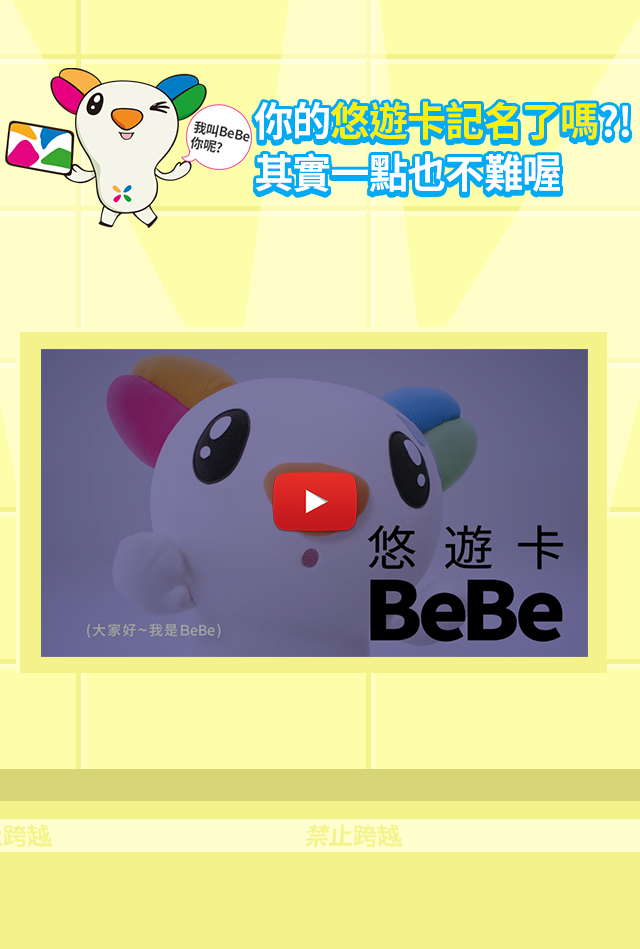
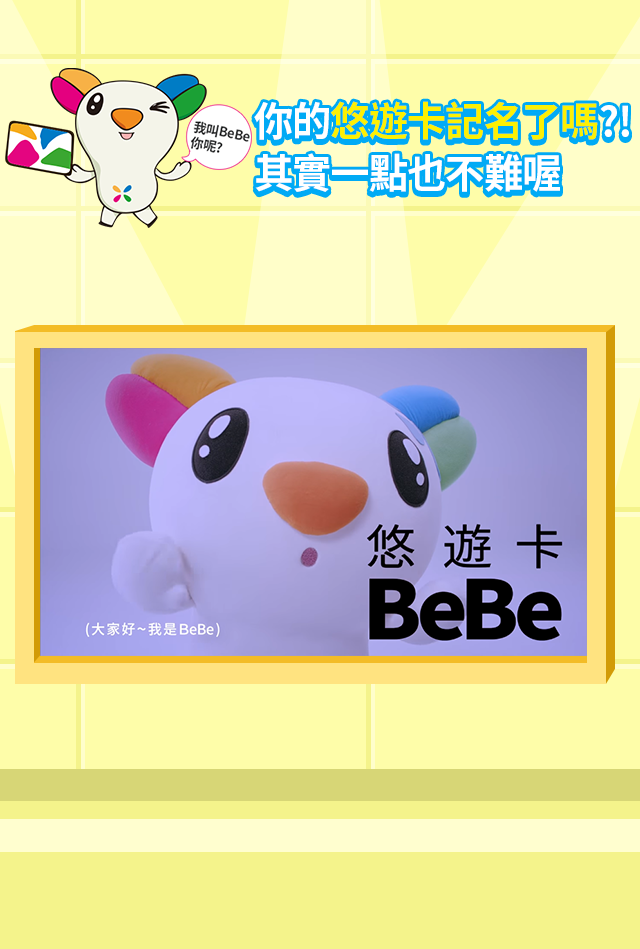
tvc

Changed region(s): [[0.0, 0.3361, 0.9688, 0.7334], [0.4688, 0.8556, 0.625, 0.9168], [0.0, 0.8556, 0.0938, 0.9168]]

diff --git a/demo/EasyCard/js/main.js b/demo/EasyCard/js/main.js
@@ -13,10 +13,15 @@ main = function (){
 	function init () {
 		console.log('main is loaded.');
 
-		$('.fb-btn').click(function(event) {
+		$('#comic-page').find('.fb-btn').click(function(event) {
 			/* Act on the event */
 			shareFB('http://event.easycard.com.tw/name/blogger-share.html');
 		});
+
+    $('#tvc-page').find('.fb-btn').click(function(event) {
+      /* Act on the event */
+      shareFB('http://event.easycard.com.tw/name/');
+    });
 
 		TweenMax.set($('.blogger-box'),{autoAlpha:0});
 		$('.blogger-box').css('display', 'block');
@@ -128,10 +133,10 @@ main = function (){
     pageTopArray[0] = $('#top-page').offset().top;
     pageTopArray[1] = $('#comic-page').offset().top;
 
-    pageTopArray[2] = $('#rule-page').offset().top;
+    // pageTopArray[2] = $('#rule-page').offset().top;
 
-    // pageTopArray[2] = $('#tvc-page').offset().top;
-    // pageTopArray[3] = $('#rule-page').offset().top;
+    pageTopArray[2] = $('#tvc-page').offset().top;
+    pageTopArray[3] = $('#rule-page').offset().top;
 
     var _count;
 
@@ -156,8 +161,7 @@ main = function (){
     }else if(nextIndex == 2){
       _tag = 'blogger';
     }else if(nextIndex == 3){
-      // _tag = 'tvc';
-      _tag = 'rule';
+      _tag = 'tvc';
     }else if(nextIndex == 4){
       _tag = 'rule';
     }

diff --git a/demo/EasyCard/css/style.css b/demo/EasyCard/css/style.css
@@ -345,28 +345,33 @@ table{
   width:100%;
   height: 700px;
 
-  display: none;
+  background-repeat: repeat;
+
+  overflow: hidden;
 }
 
 .tvc-content{
-  position: relative;
-  width: 1000px;
+  position: absolute;
+  width: 1366px;
   height: 700px;
   background: url(../images/tvc-content-dummy.png);
-  margin: 0 auto;
+  left:50%;
+  top:0;
+
+  margin-left: -683px;
 }
 
 .tvc-content .cta-btn{
-    top: 233px;
-    left: 621px;
+    top: 240px;
+    left: 804px;
 }
 
 .tvc-content .fb-btn{
-    top: 430px;
-    left: 187px;
-  width: 222px;
-  height: 50px;
-  background-image: url(../images/fb-btn.png);
+    top: 502px;
+    left: 358px;
+    width: 256px;
+    height: 57px;
+    background-image: url(../images/fb-btn-tvc.png);
 }
 
 .fb-btn{
@@ -649,6 +654,8 @@ table{
     height: 100%;
     background: url(../images/mobile/tvc-content-dummy.png);
     margin: 0;
+
+    left:0;
   }
 
   .tvc-content .cta-btn{
@@ -657,11 +664,11 @@ table{
   }
 
   .tvc-content .fb-btn{
-    top: 692px;
-    left: 209px;
-    width: 222px;
-    height: 50px;
-    background-image: url(../images/fb-btn.png);
+    top: 699px;
+    left: 192px;
+    width: 256px;
+    height: 57px;
+    background-image: url(../images/fb-btn-tvc.png);
   }
 
   /***********************/

diff --git a/demo/EasyCard/tvc-share.html b/demo/EasyCard/tvc-share.html
@@ -13,8 +13,8 @@
         <meta http-equiv="X-Frame-Options" content="deny">
         <meta property="og:title" content="【掉卡不掉錢的聰明密技是…】"/>
         <meta property="og:description" content="知名部落客 - 兔包馬麻教你如何聰明面對突發狀況！並力邀你一起來上網記名，還有月月抽萬元加值金之悠遊卡機會呢！"/>
-        <meta property="og:url" content="http://eric00826.github.io/demo/EasyCard/blogger-share-test.html?utm_source=fbshareback&utm_medium=fbshareback&utm_content=fbshareback"/>
-        <meta property="og:image" content="http://eric00826.github.io/demo/EasyCard/images/blogger-share.jpg"/>
+        <meta property="og:url" content="http://event.easycard.com.tw/name/blogger-share.html?utm_source=fbshareback&utm_medium=fbshareback&utm_content=fbshareback"/>
+        <meta property="og:image" content="http://event.easycard.com.tw/name/images/blogger-share.jpg"/>
 
          <title>悠遊卡 掉卡不掉錢，記名享保障</title>
 

diff --git a/demo/EasyCard/blogger-share.html b/demo/EasyCard/blogger-share.html
@@ -19,7 +19,6 @@
          <title>悠遊卡 掉卡不掉錢，記名享保障</title>
 
         <script>
-          var _search = location.search;
           location.href = 'http://event.easycard.com.tw/name/?utm_source=fbshareback&utm_medium=fbshareback&utm_content=fbshareback';
         </script>
     </head>
